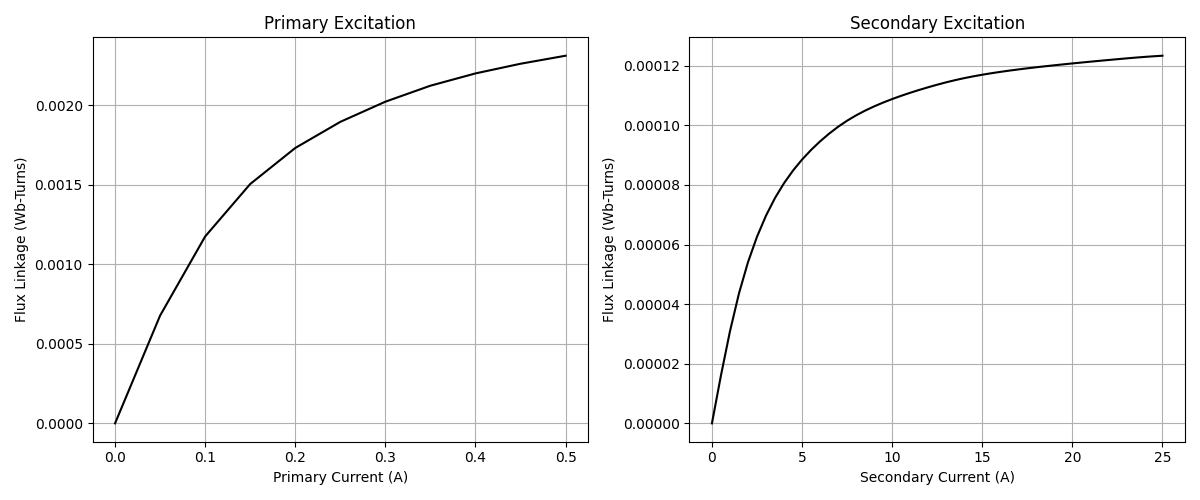
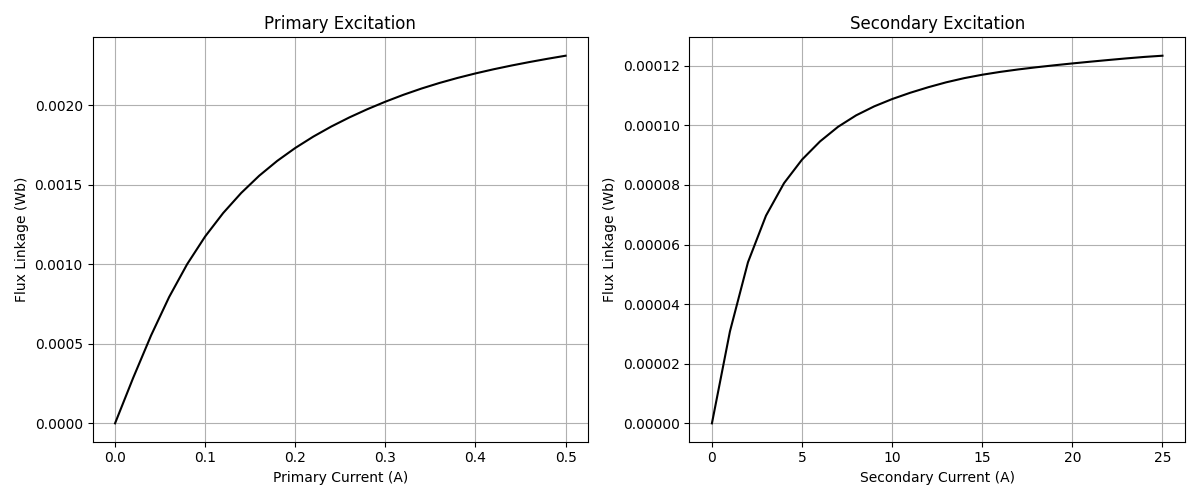
Correction should be weber not weber-turns.

diff --git a/01_simulation/01_finite_element/00_transformer/orchestrator.py b/01_simulation/01_finite_element/00_transformer/orchestrator.py
@@ -5,10 +5,13 @@ Description:
     Orchestrates FEMM to produce flux linkage
     curves with respect to current using a 
     magnetostatic approach for a transformer.
+    
+    It also uses the core area to derive the
+    b-field within the core.
 """
 
 from pathlib import Path
-from picounits import Parser, CURRENT
+from picounits import Parser, MAGNETIC_FLUX
 
 from femm import femm as pyFEMM
 from matplotlib import pyplot as plt
@@ -28,7 +31,7 @@ pyFEMM.opendocument(file_location)
 
 # Primary excitation
 primary_range = parameters.primary.current[1] - parameters.primary.current[0]
-primary_size = primary_range.stripped / parameters.primary.steps.stripped
+primary_size = primary_range / parameters.primary.steps
 
 steps = parameters.primary.steps.stripped
 
@@ -36,15 +39,15 @@ primary_flux_linkage = []
 primary_current = []
 for step in range(0, steps + 1):
     current = primary_size * step
-    print(f"Step {step}/{steps}: Setting primary current to {current * CURRENT:.2f}")
+    print(f"Step {step}/{steps}: Primary current = {current:.2f}")
 
-    pyFEMM.mi_setcurrent(parameters.primary.name, current)
+    pyFEMM.mi_setcurrent(parameters.primary.name, current.stripped)
     pyFEMM.mi_setcurrent(parameters.secondary.name, 0)
 
     pyFEMM.mi_analyze(1)
     pyFEMM.mi_loadsolution()
 
-    flux_linkage = pyFEMM.mo_getcircuitproperties('Primary')[2]
+    flux_linkage = pyFEMM.mo_getcircuitproperties('Primary')[2] * MAGNETIC_FLUX
 
     primary_flux_linkage.append(flux_linkage)
     primary_current.append(current)
@@ -52,7 +55,7 @@ for step in range(0, steps + 1):
 
 # Secondary excitation
 secondary_range = parameters.secondary.current[1] - parameters.secondary.current[0]
-secondary_size = secondary_range.stripped / parameters.secondary.steps.stripped
+secondary_size = secondary_range / parameters.secondary.steps
 
 steps = parameters.secondary.steps.stripped
 
@@ -60,15 +63,15 @@ secondary_flux_linkage = []
 secondary_current = []
 for step in range(0, steps + 1):
     current = secondary_size * step
-    print(f"Step {step}/{steps}: Setting secondary current to {current * CURRENT:.2f} A")
+    print(f"Step {step}/{steps}: Secondary current = {current:.2f}")
 
     pyFEMM.mi_setcurrent(parameters.primary.name, 0)
-    pyFEMM.mi_setcurrent(parameters.secondary.name, current)
+    pyFEMM.mi_setcurrent(parameters.secondary.name, current.stripped)
 
     pyFEMM.mi_analyze(1)
     pyFEMM.mi_loadsolution()
 
-    flux_linkage = pyFEMM.mo_getcircuitproperties('Secondary')[2]
+    flux_linkage = pyFEMM.mo_getcircuitproperties('Secondary')[2] * MAGNETIC_FLUX
 
     secondary_flux_linkage.append(flux_linkage)
     secondary_current.append(current)
@@ -82,7 +85,7 @@ plt.figure(figsize=(12, 5))
 plt.subplot(1, 2, 1)
 plt.plot(primary_current, primary_flux_linkage, color='black')
 plt.xlabel('Primary Current (A)')
-plt.ylabel('Flux Linkage (Wb-Turns)')
+plt.ylabel('Flux Linkage (Wb)')
 plt.title('Primary Excitation')
 plt.grid(True)
 
@@ -90,7 +93,7 @@ plt.grid(True)
 plt.subplot(1, 2, 2)
 plt.plot(secondary_current, secondary_flux_linkage, color='black')
 plt.xlabel('Secondary Current (A)')
-plt.ylabel('Flux Linkage (Wb-Turns)')
+plt.ylabel('Flux Linkage (Wb)')
 plt.title('Secondary Excitation')
 plt.grid(True)
 
